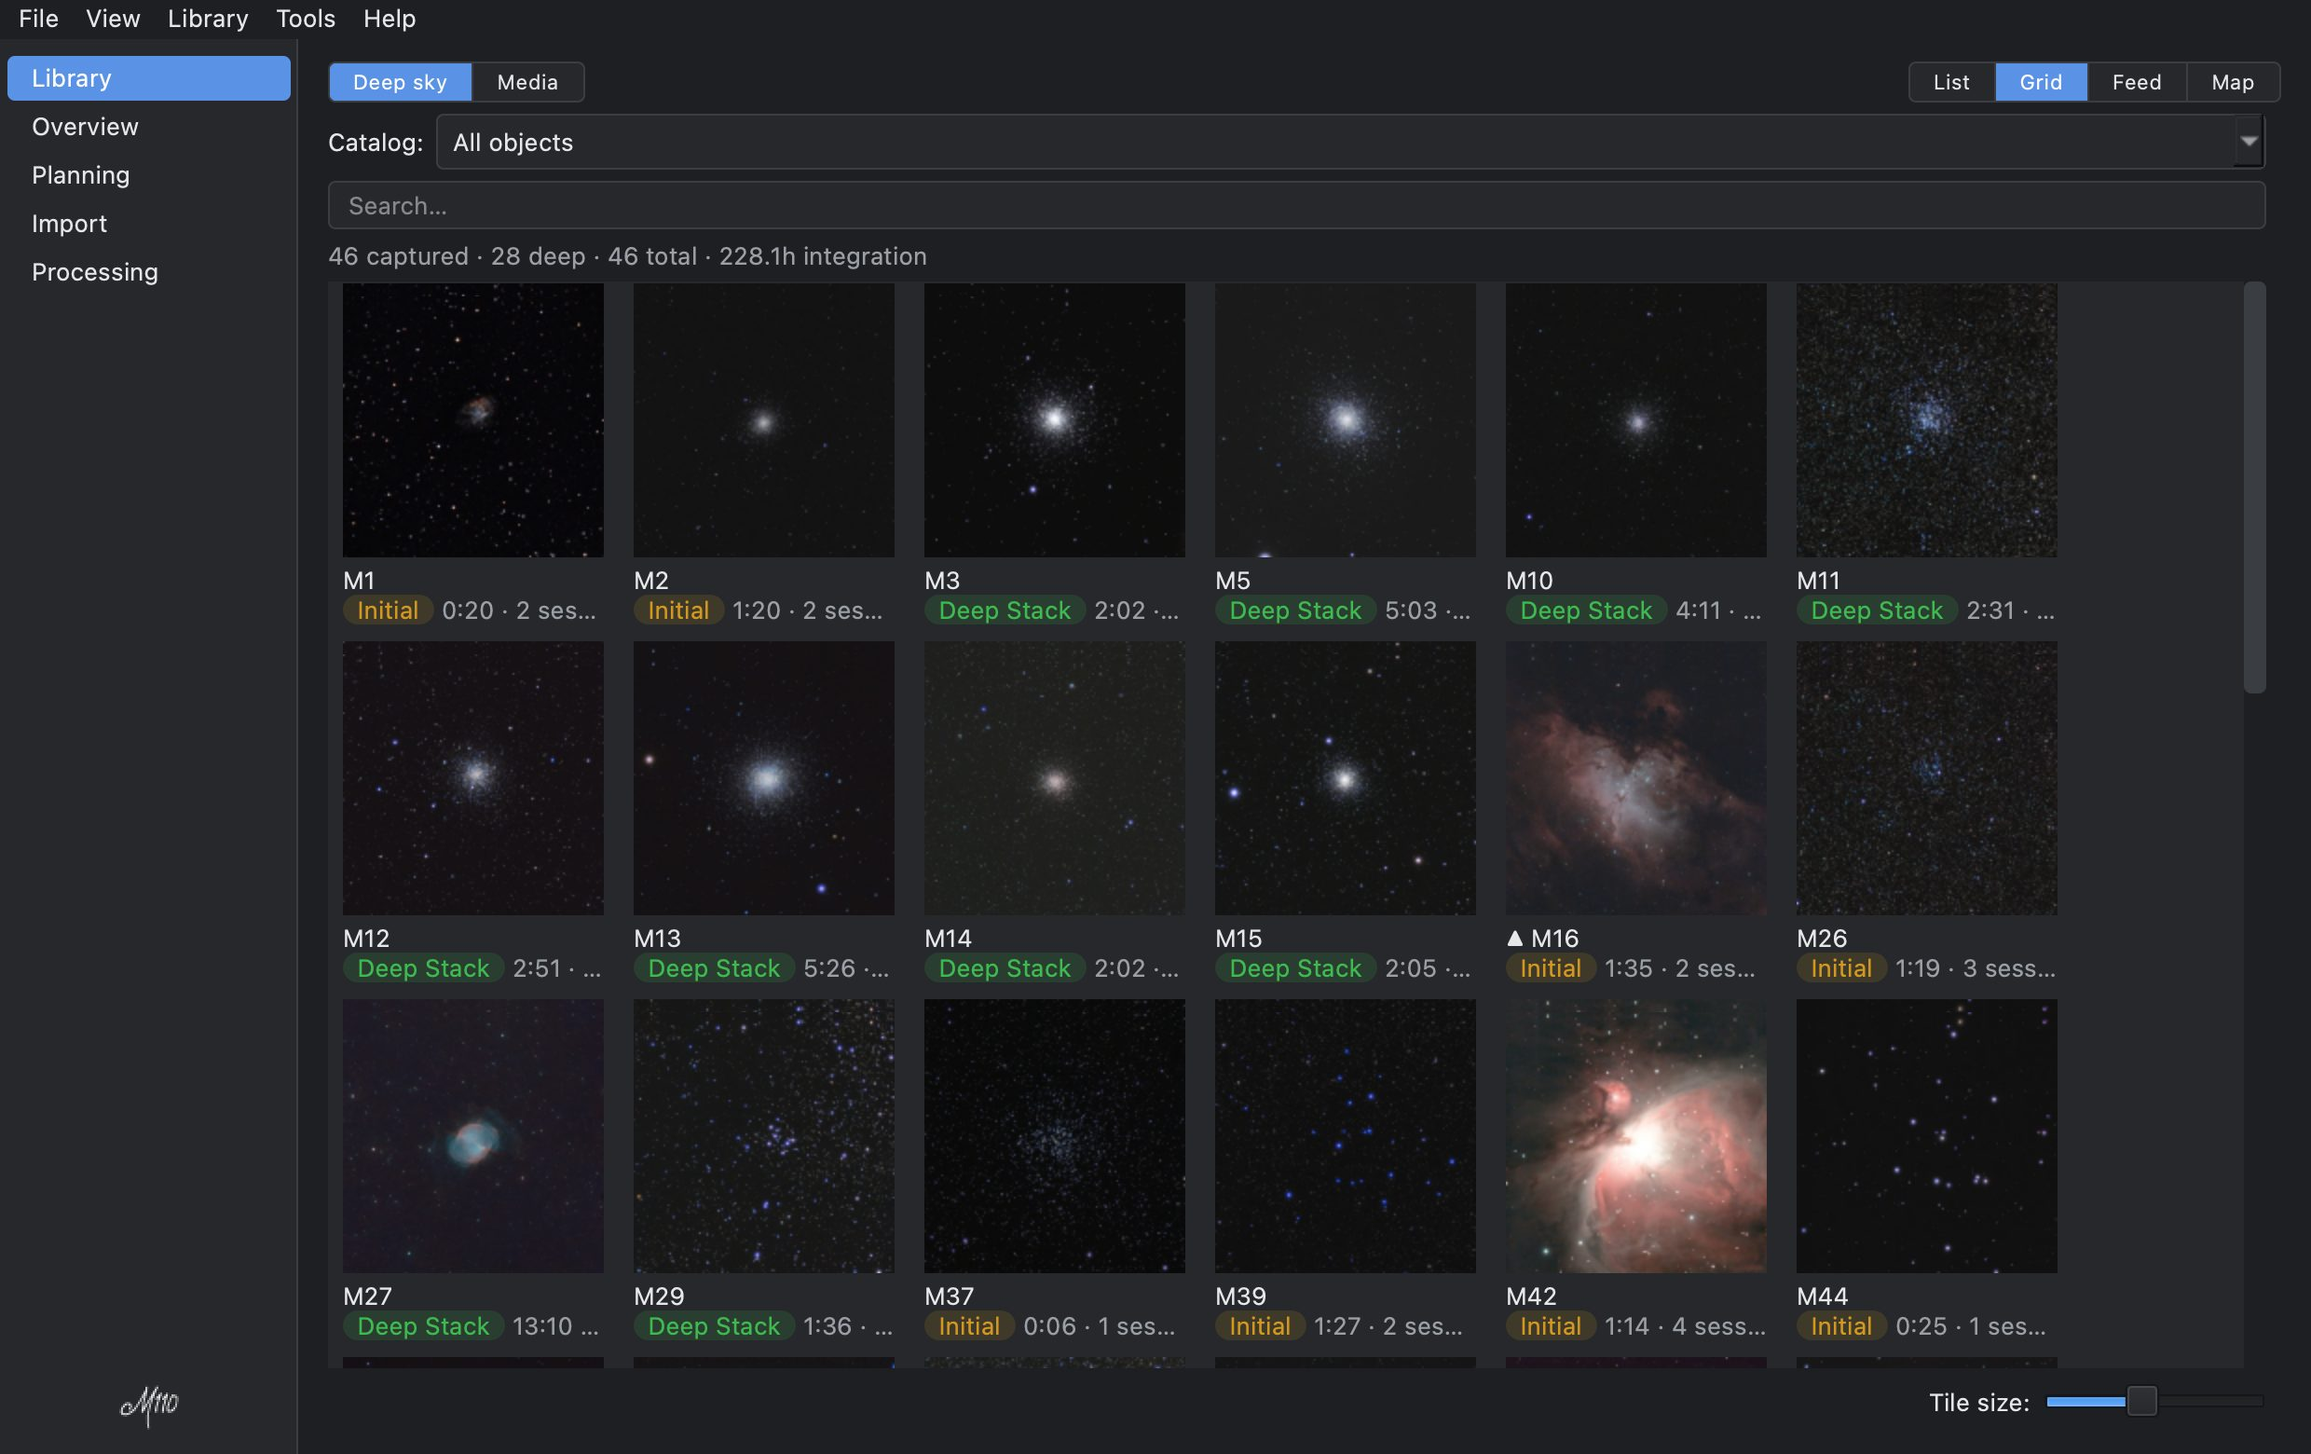
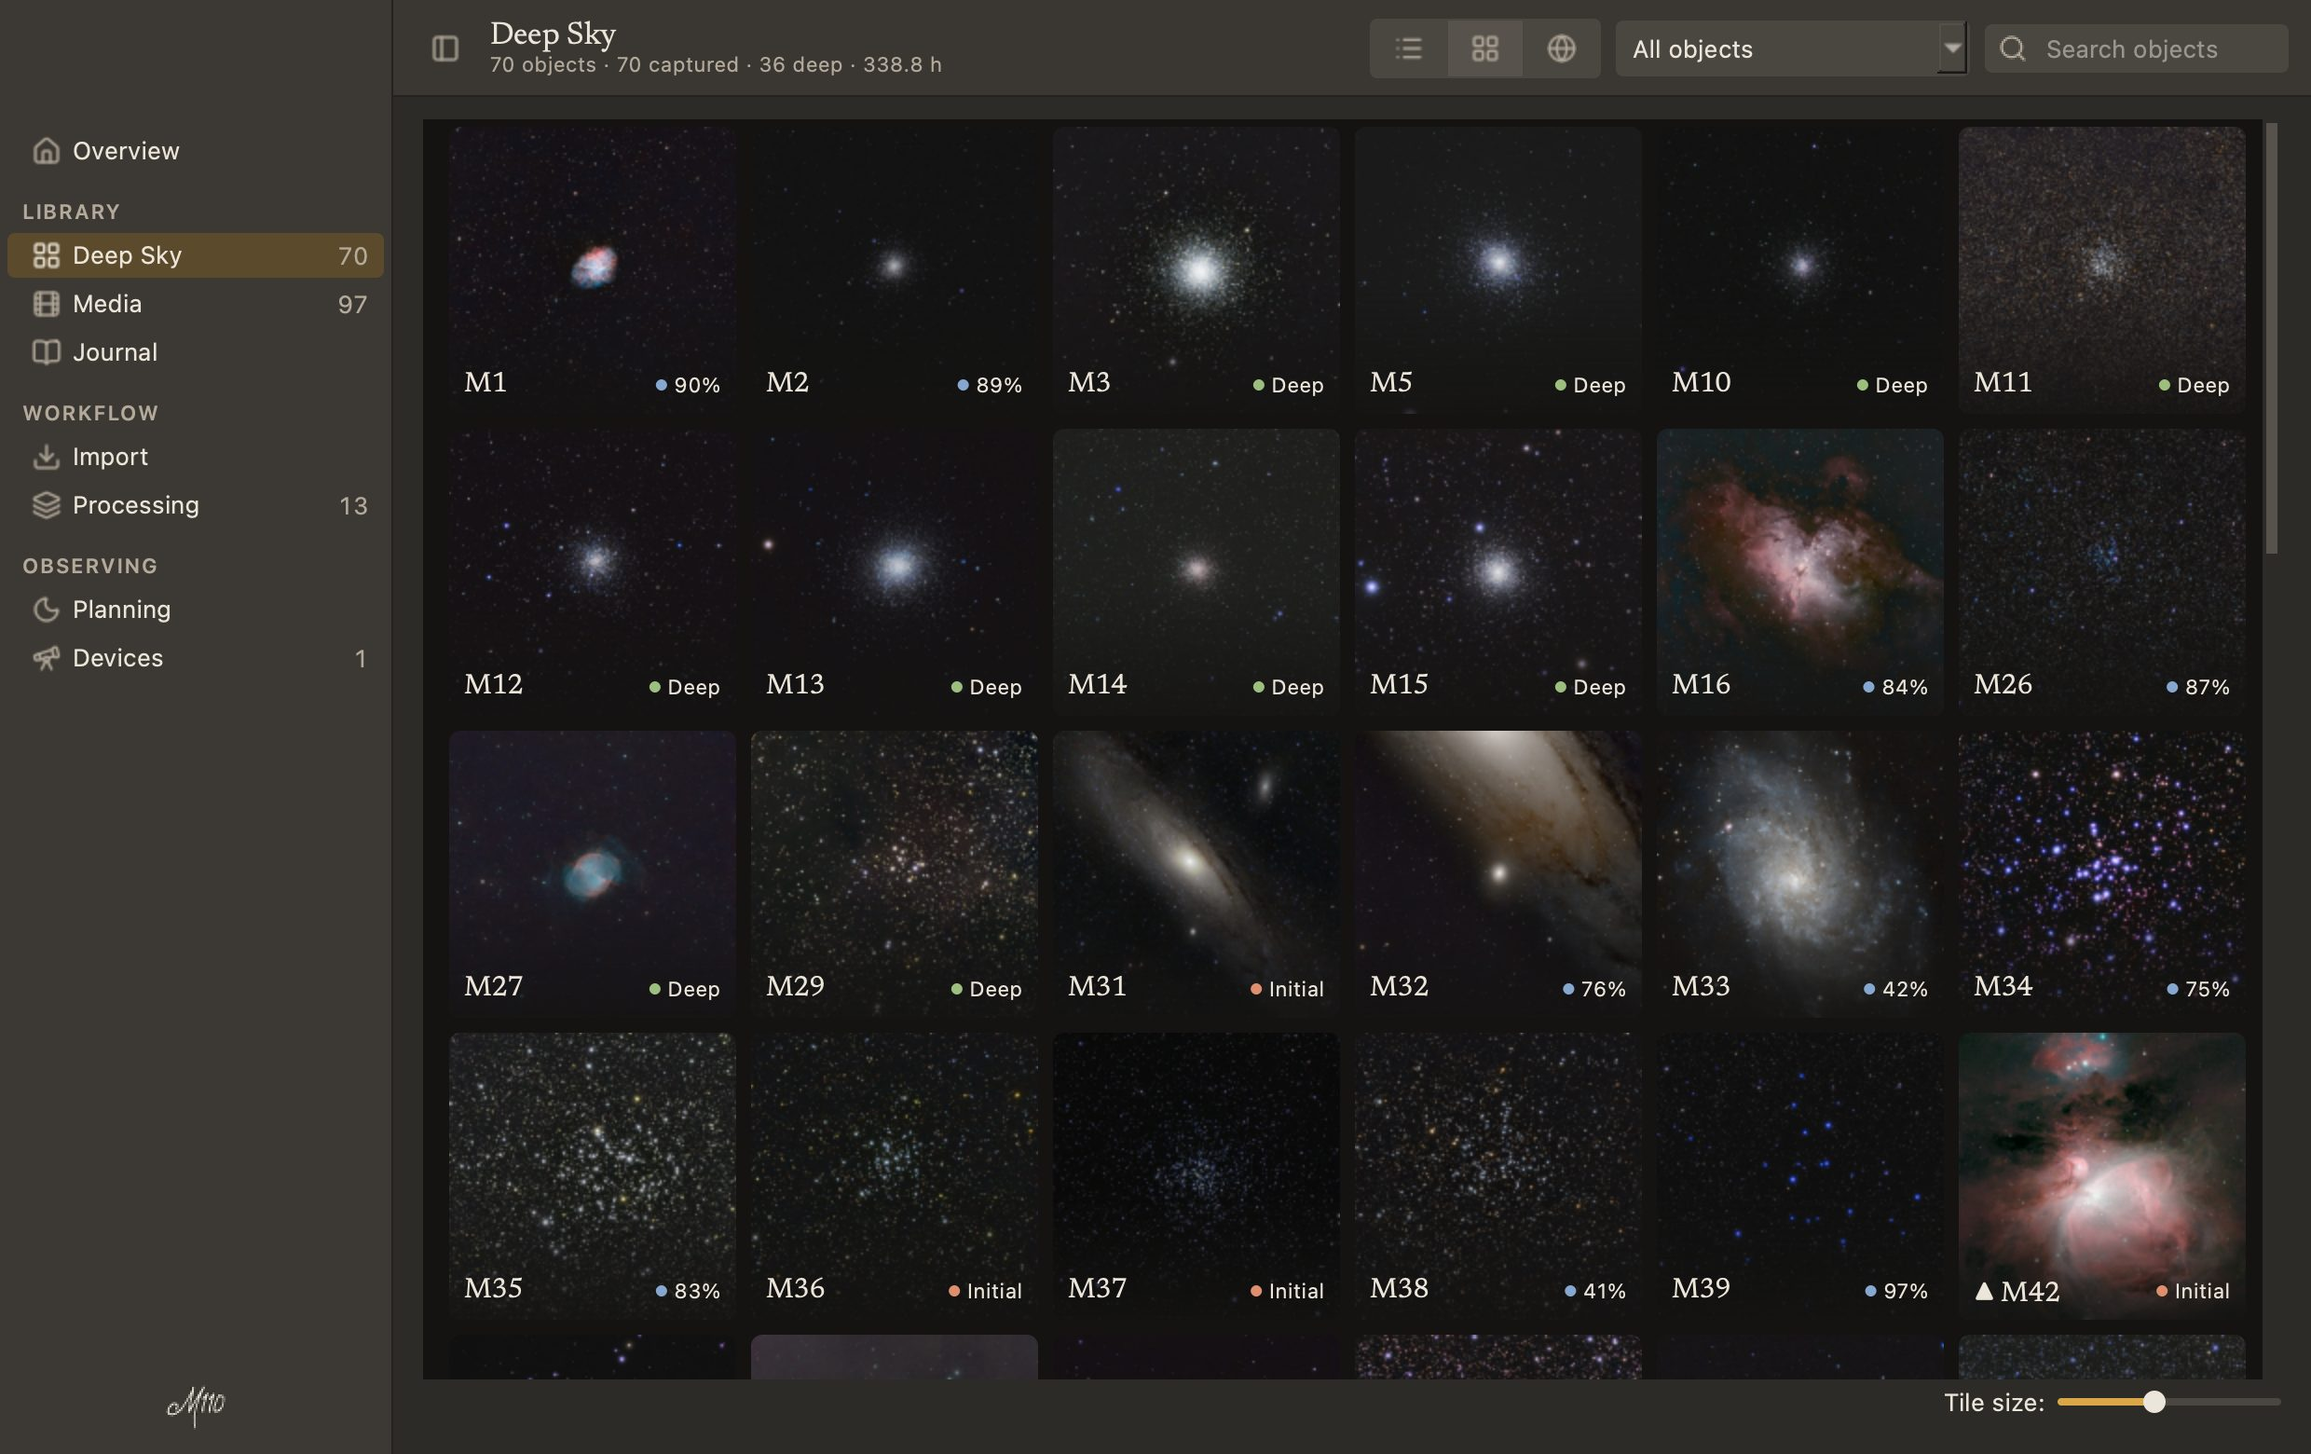
site: 1.0 screenshots and copy — catalog board, Night Vision, Devices
Every screenshot predated the 1.0 redesign (cut for 0.3.0-beta.5). Re-render
them from the live library and add the features that have shipped since:

- Lead with the Overview catalog board (wide), and add Night Vision and the
  Devices page (dark library + which dark each capture got) to the gallery.
- Copy: N.I.N.A./PINS import; "Processing-prep" becomes "Stacking &
  processing" (m110-stack with Siril or Stackhammer, AstroWizard and
  StackingWizard hand-off — the old card still said "Siril today, other
  workflows coming"); a new "Calibration, handled" card; per-telescope goals
  and the three statuses; Night Vision; local + S3 backups at once. Capture
  tracking folds into "A real library" so the grid stays 3×3.
- "Read the user guide" opens the released guide (docs/latest/) rather than
  GitHub main, which describes unshipped work.

tools/gen_screenshots.py, for the redesigned window:
- hide the menu bar (offscreen draws it inside the window) and the
  assistant's queue banner;
- two grid columns beside the inspector in the detail shot;
- new shot-night.jpg and shot-devices.jpg (forms folded so the calibration
  tables are in frame); shot-summary.jpg → shot-overview.jpg;
- isolate APP_CONFIG_DIR as well as SETTINGS_FILE (Night Vision saves the
  mode), per the scripting-the-app rule.

diff --git a/site/index.html b/site/index.html
@@ -99,6 +99,7 @@
   /* Screenshots */
   .shots { display: grid; grid-template-columns: repeat(auto-fit, minmax(300px, 1fr)); gap: 22px; }
   .shot { margin: 0; }
+  .shot.wide { grid-column: 1 / -1; }   /* the lead shot spans the row */
   .shot img {
     width: 100%; height: auto; display: block; border-radius: 12px;
     border: 1px solid var(--card-border); box-shadow: var(--shadow);
@@ -162,12 +163,12 @@
   <h1>M110</h1>
   <p class="tagline">Complete the catalog.</p>
   <p class="pitch"><strong>A photo library for your smart telescope.</strong> M110 is a desktop
-  app that turns a growing pile of Seestar or DwarfLab captures into an organized deep-sky
-  library. Catalog, capture tracking, ingest, processing-prep, session planning,
+  app that turns a growing pile of Seestar, DwarfLab, or N.I.N.A. captures into an organized
+  deep-sky library. Catalog, capture tracking, ingest, calibration, stacking, session planning,
   a sky map of everything you've shot, and safe backups, with a north-star goal to chase.</p>
   <p>
     <a class="btn" href="#download">Download for macOS · Linux · Windows</a>
-    <a class="btn secondary" href="https://github.com/mjm1138/m110/blob/main/docs/README.md">Read the user guide</a>
+    <a class="btn secondary" href="docs/latest/">Read the user guide</a>
   </p>
 </header>
 
@@ -186,8 +187,9 @@
     <div class="feature">
       <div class="ico">🗂</div>
       <h3>A real library</h3>
-      <p>Every object you've shot, organized by catalog (Messier, Caldwell, and more)
-      with status, integration time, and a per-object journal.</p>
+      <p>Every object you've shot, organized by catalog (Messier, Caldwell, and more), with a
+      per-object journal. Sessions, frames, filters, and integration roll up from your FITS
+      headers, so you know what's done and what needs another night.</p>
     </div>
     <div class="feature">
       <div class="ico">🗺</div>
@@ -198,33 +200,38 @@
     <div class="feature">
       <div class="ico">📥</div>
       <h3>One-click ingest</h3>
-      <p>Point M110 at your Seestar, DwarfLab scope, or a folder; it groups, names, and files your
-      subs, stacks, and finished renders. You preview before anything is written.</p>
-    </div>
-    <div class="feature">
-      <div class="ico">🔭</div>
-      <h3>Capture tracking</h3>
-      <p>Sessions, frames, filters, and integration roll up automatically from your
-      FITS headers, so you know what's done and what needs another night.</p>
+      <p>Point M110 at your Seestar, DwarfLab scope, a N.I.N.A. or PINS session, or any folder; it
+      groups, names, and files your subs, calibration frames, stacks, and finished renders. You
+      preview before anything is written.</p>
     </div>
     <div class="feature">
       <div class="ico">✨</div>
-      <h3>Processing-prep</h3>
-      <p>Automatically arranges a clean, contained processing sandbox per target (Siril today, other workflows coming). Lights
-      linked, a tuned stacking preset ready. When you're done, it imports your finished work back.</p>
+      <h3>Stacking &amp; processing</h3>
+      <p>Let M110 stack for you with Siril (or Stackhammer, on Apple silicon), or open a ready-made Siril sandbox
+      with your lights linked and a tuned preset. Hand the stack to AstroWizard or
+      StackingWizard, and your finished work comes back into the library.</p>
+    </div>
+    <div class="feature">
+      <div class="ico">🌡</div>
+      <h3>Calibration, handled</h3>
+      <p>A dark and flat library for each telescope, matched to every capture from its FITS
+      headers. Seestar subs already dark-subtracted on the scope are never darked twice, and
+      the Devices page shows which dark each night got.</p>
     </div>
     <div class="feature">
       <div class="ico">🎯</div>
       <h3>A goal to chase</h3>
       <p>Track your progress through a curated catalog (Messier, Caldwell, and more) or
-      your own custom goals. You'll know what you've got, and what targets are yet to be captured. M110 is named for the 110th
+      your own custom goals, on a board of every object, for any telescope or just one.
+      Each target goes from initial to in progress to deep. M110 is named for the 110th
       and final Messier object.</p>
     </div>
     <div class="feature">
       <div class="ico">🌙</div>
       <h3>Plan your nights</h3>
       <p>See what's up tonight, ranked by your goals and priorities. M110 creates a moon-aware
-      schedule, an altitude timeline, and a printable field guide for the session.</p>
+      schedule, an altitude timeline, and a printable field guide for the session, and
+      Night Vision turns the whole app red at the scope.</p>
     </div>
     <div class="feature">
       <div class="ico">💬</div>
@@ -236,8 +243,9 @@
     <div class="feature">
       <div class="ico">💾</div>
       <h3>Safe by design</h3>
-      <p>Local-first, open source, and careful with your data. Built-in,
-      multi-mode backups so your irreplaceable library stays protected.</p>
+      <p>Local-first, open source, and careful with your data. Built-in backups to a
+      local drive and an S3-compatible cloud bucket at the same time, so your irreplaceable
+      library stays protected.</p>
     </div>
   </div>
 </section>
@@ -246,30 +254,40 @@
   <h2 class="center">Look inside</h2>
   <p class="center muted" style="margin:-8px auto 28px;">Click any screenshot to enlarge.</p>
   <div class="shots">
+    <figure class="shot wide">
+      <img src="assets/shot-overview.jpg" width="1240" height="780" loading="lazy"
+           alt="M110 Overview: the Messier catalog board, one tile per object showing its picture and whether it's deep, in progress, or initial, above goal progress bars">
+      <figcaption>All 110, on one board</figcaption>
+    </figure>
     <figure class="shot">
       <img src="assets/shot-library.jpg" width="1240" height="780" loading="lazy"
-           alt="M110's Library grid: A gallery of deep-sky captures with status chips and integration times">
+           alt="M110's Deep Sky grid: a gallery of deep-sky captures, each tile showing its status or how close it is to its integration goal">
       <figcaption>Your whole library, at a glance</figcaption>
     </figure>
     <figure class="shot">
       <img src="assets/shot-detail.jpg" width="1240" height="780" loading="lazy"
-           alt="M110 object detail: The M81 and M82 galaxies as a hero image with capture stats and notes">
+           alt="M110 object detail: M81 as a cover image beside the grid, with its integration progress toward its goal and capture details">
       <figcaption>Every object, with its story</figcaption>
     </figure>
     <figure class="shot">
       <img src="assets/shot-skymap.jpg" width="1240" height="780" loading="lazy"
-           alt="M110's sky map: The Messier catalog plotted on a star chart, with captured objects in green and amber and the rest of the goal in grey.">
+           alt="M110's sky map: the Messier catalog plotted on a star chart, colored by status, with the uncaptured rest of the goal in grey">
       <figcaption>See your progress written on the sky</figcaption>
     </figure>
     <figure class="shot">
-      <img src="assets/shot-summary.jpg" width="1240" height="780" loading="lazy"
-           alt="M110 Overview: Goal progress, integration time by object, and recent sessions">
-      <figcaption>Track your progress toward your goals</figcaption>
+      <img src="assets/shot-planning.jpg" width="1240" height="780" loading="lazy"
+           alt="M110 Planning: tonight's plan on an altitude timeline, with each target's start, duration, end, altitude, and moon separation">
+      <figcaption>Know what to shoot tonight</figcaption>
     </figure>
     <figure class="shot">
-      <img src="assets/shot-planning.jpg" width="1240" height="780" loading="lazy"
-           alt="M110 Planning: Tonight's priority targets ranked by goal, season, and visibility">
-      <figcaption>Know what to shoot tonight</figcaption>
+      <img src="assets/shot-night.jpg" width="1240" height="780" loading="lazy"
+           alt="M110 in Night Vision: the night plan and altitude timeline drawn entirely in dim red">
+      <figcaption>Night Vision, for use at the scope</figcaption>
+    </figure>
+    <figure class="shot">
+      <img src="assets/shot-devices.jpg" width="1240" height="780" loading="lazy"
+           alt="M110 Devices page: a Seestar S50's dark library by temperature, and each capture with the dark it got and how far off it was">
+      <figcaption>Know which dark every night got</figcaption>
     </figure>
   </div>
 </section>

diff --git a/tools/gen_screenshots.py b/tools/gen_screenshots.py
@@ -94,9 +94,11 @@ def build(root: Path, out_dir: Path):
     from m110 import config
     os.environ["M110_DATA_ROOT"] = str(root)
     config.set_data_root(root)
-    # Never touch the user's real ~/.m110/settings.json — theme + view prefs go to
-    # a throwaway file, so screenshots don't change their preferences.
-    config.SETTINGS_FILE = Path(tempfile.mkdtemp()) / "settings.json"
+    # Never touch the user's real ~/.m110 — theme + view prefs (and anything else
+    # the app keeps there) go to a throwaway dir, so screenshots don't change their
+    # preferences. Night Vision below *saves* the mode, so this matters.
+    config.APP_CONFIG_DIR = Path(tempfile.mkdtemp())
+    config.SETTINGS_FILE = config.APP_CONFIG_DIR / "settings.json"
 
     from PySide6.QtWidgets import QApplication
     app = QApplication.instance() or QApplication(sys.argv[:1])
@@ -109,6 +111,15 @@ def build(root: Path, out_dir: Path):
     win._ready = False                          # READ-ONLY: no launch refresh / net thread
     win.resize(W, H)
     win.statusBar().hide()                      # keep the local data-root path out of frame
+    # Offscreen, the menu bar renders *inside* the window (macOS puts it at the top
+    # of the screen), which no user ever sees — leave it out of the frame.
+    win.menuBar().hide()
+    # The assistant's "N suggested changes" strip is the user's queue, not the
+    # product — keep it out of every shot (and stop a refresh re-showing it).
+    banner = getattr(win, "_assistant_banner", None)
+    if banner is not None:
+        banner.refresh = lambda: 0
+        banner.hide()
     win.show()
     _pump(app, 1.0)
     out_dir.mkdir(parents=True, exist_ok=True)
@@ -122,7 +133,9 @@ def build(root: Path, out_dir: Path):
     if slug:
         win.open_object(slug)
         try:
-            win.catalog.splitter.setSizes([320, 900])   # favour the detail/hero pane
+            # Two grid columns beside the inspector: the shot reads as "the
+            # library, with one object open", not as one huge picture.
+            win.catalog.splitter.setSizes([520, 700])
         except Exception:
             pass
         _shot(win, app, out_dir / "shot-detail.jpg")
@@ -164,7 +177,7 @@ def build(root: Path, out_dir: Path):
 
     # 4) Overview — the dashboard
     win.go_to(win._overview_index)
-    _shot(win, app, out_dir / "shot-summary.jpg", settle=2.5)
+    _shot(win, app, out_dir / "shot-overview.jpg", settle=2.5)
 
     # 5) Planning — the priority ranking, plus a night plan + timeline if it computes
     win.go_to(win._planning_index)
@@ -188,6 +201,40 @@ def build(root: Path, out_dir: Path):
     except Exception as e:
         print(f"  (planning night-plan skipped: {e})")
     _shot(win, app, out_dir / "shot-planning.jpg", settle=2.0)
+
+    # 6) Night Vision — the same night plan, red, the way it's used at the scope.
+    try:
+        theme.set_night(True)
+        _pump(app, 1.0)
+        _shot(win, app, out_dir / "shot-night.jpg", settle=1.5)
+    except Exception as e:
+        print(f"  (night vision not rendered: {e})")
+    finally:
+        theme.set_mode("dark")
+        _pump(app, 0.5)
+
+    # 7) Devices — the telescope with the most captures: its dark library,
+    # which dark each capture got, and the sensor chart.
+    try:
+        win.go_to(win._devices_index)
+        page = win.devices
+        page.reload()
+        devs = sorted(page._visible_devices(),
+                      key=lambda d: -len(d.get("captures") or []))
+        if devs:
+            page.select_device(devs[0]["device"])
+            # Fold the editable forms so the calibration story — the dark
+            # library, which dark each capture got, sensor health — is in frame.
+            for sec in (page._id_sec, page._plan_sec, page._optics_sec,
+                        page._obj_sec):
+                sec._btn.setChecked(False)
+            page.splitter.setSizes([300, 900])  # the list is a picker; the detail is the story
+            _pump(app, 0.5)
+            _shot(win, app, out_dir / "shot-devices.jpg", settle=2.0)
+        else:
+            print("  (no telescopes in this library — skipping shot-devices.jpg)")
+    except Exception as e:
+        print(f"  (devices page not rendered: {e})")
 
     win.close()
     _pump(app, 0.3)
